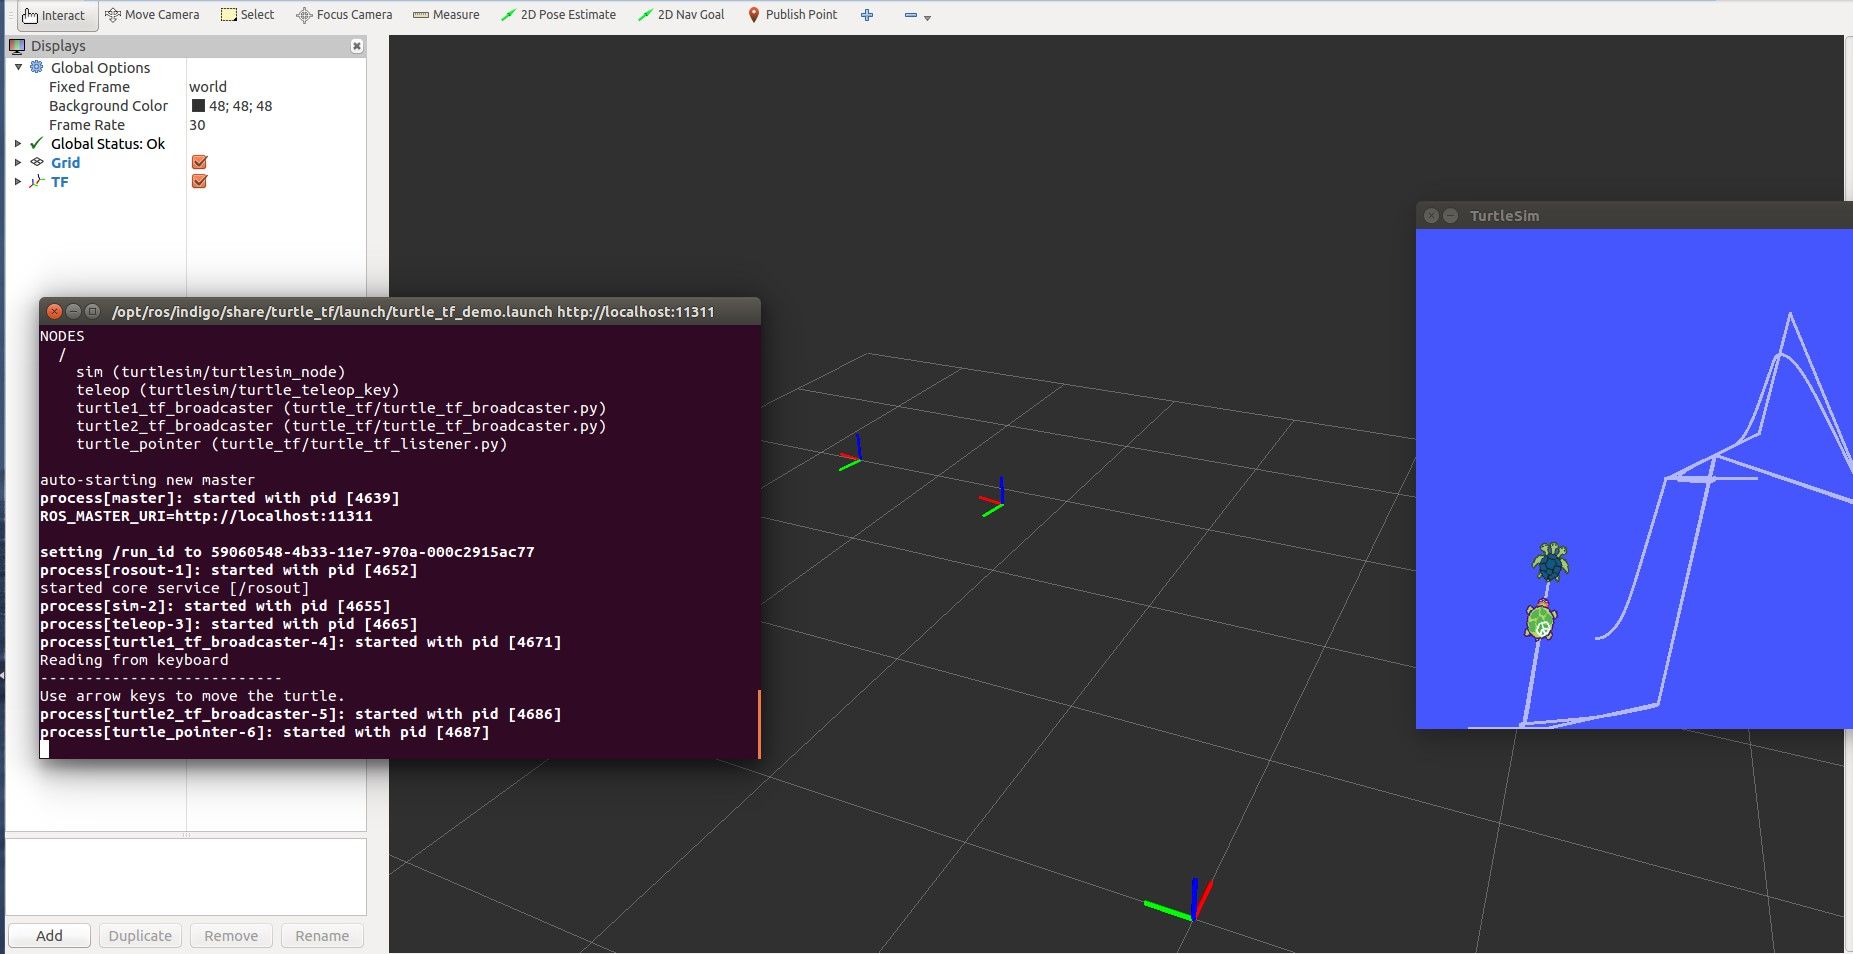
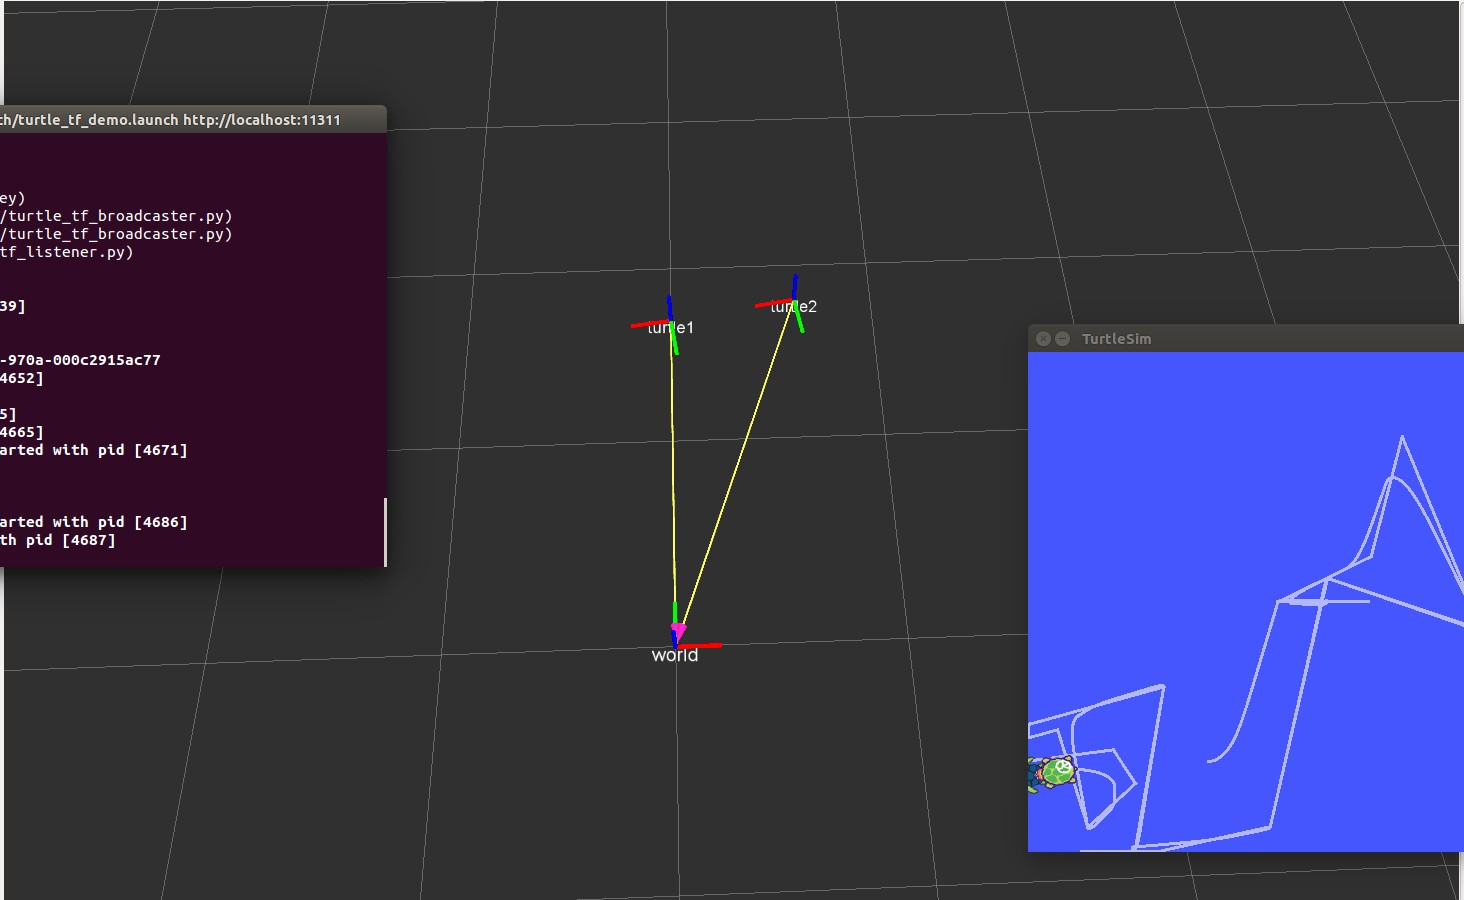
add ros-primary-tutorial-13 page

diff --git a/source/_posts/ros-primary-tutorial-13.md b/source/_posts/ros-primary-tutorial-13.md
@@ -1,0 +1,201 @@
+---
+title: ROS初级<十三> 理解 ROS 坐标转换 二
+date: 2017-06-07 13:44:30
+categories: ROS
+tags: ROS tf
+comments: true
+---
+本篇继续学习 [tf](http://wiki.ros.org/tf)。通过编写一个简单的 tf broadcaster 以及 tf listener 来更进一步的理解坐标变换，参考:[Writing a tf broadcaster C++](http://wiki.ros.org/tf/Tutorials/Writing%20a%20tf%20broadcaster%20%28C%2B%2B%29) 以及 [Writing a tf listener C++](http://wiki.ros.org/tf/Tutorials/Writing%20a%20tf%20listener%20%28C%2B%2B%29)
+<!--more-->
+# tf broadcaster
+先创建一个程序包，名字随心，这里我们命名为 *learning_tf*,包的依赖项为 *roscpp rospy turtlesim*
+
+   ```
+ $ cd ~/catkin_ws/src/
+ $ catkin_create_pkg learning_tf roscpp rospy turtlesim
+   ```
+
+为了便于使用 *roscd* 我们先编译一下这个程序包:
+
+   ```
+ $ cd ~/catkin_ws/
+ $ catkin_make
+ $ rospack profile
+   ```
+
+此时使用 roscd 输入lean 再按 TAB 即可出现 *learning_tf/*。进入 *learning_tf/src* 目录下，新建文件 *turtle_tf_broadcaster.cpp* 如果不愿意敲代码，可以直接下载官网例程 [trutle_tf_broadcaster.cpp](https://raw.github.com/ros/geometry_tutorials/hydro-devel/turtle_tf/src/turtle_tf_broadcaster.cpp)，源代码及注解：
+
+   ```
+ #include <ros/ros.h>
+ #include <tf/transform_broadcaster.h> //tf 广播头文件
+ #include <turtlesim/Pose.h>
+ 
+ std::string turtle_name;
+ 
+ 
+ 
+ void poseCallback(const turtlesim::PoseConstPtr& msg)
+ {
+   //创建一个 TransformBroadcaster 对象用于发布坐标变换
+   static tf::TransformBroadcaster br;
+   
+   //创建Transform 对象并将2D的坐标转换为3D坐标系
+   tf::Transform transform;
+   transform.setOrigin( tf::Vector3(msg->x, msg->y, 0.0) );
+  
+   tf::Quaternion q;
+   q.setRPY(0, 0, msg->theta);
+   transform.setRotation(q);//旋转
+   //发布坐标变换
+   br.sendTransform(tf::StampedTransform(transform, ros::Time::now(), "world", turtle_name));
+ }
+ 
+ int main(int argc, char** argv)
+ {
+   ros::init(argc, argv, "my_tf_broadcaster");
+
+   if (argc != 2){ROS_ERROR("need turtle name as argument"); return -1;};
+  
+   turtle_name = argv[1];
+ 
+   ros::NodeHandle node;
+  //订阅 turtle_name 的位置话题，并调用回调函数 poseCallback
+   ros::Subscriber sub = node.subscribe(turtle_name+"/pose", 10, &poseCallback);
+ 
+   ros::spin();
+   return 0;
+  };
+
+   ```
+修改CMakeLists.txt:
+   ```
+ add_executable(turtle_tf_broadcaster src/turtle_tf_broadcaster.cpp)
+ target_link_libraries(turtle_tf_broadcaster ${catkin_LIBRARIES})
+   ```
+编译：
+   ```
+ $ cd ~/catkin_ws/
+ $ catkin_make
+   ```
+编译报错：
+   ```
+Linking CXX executable /home/steven/catkin_ws/devel/lib/learning_tf/turtle_tf_broadcaster
+CMakeFiles/turtle_tf_broadcaster.dir/src/turtle_tf_broadcaster.cpp.o: In function `poseCallback(boost::shared_ptr<turtlesim::Pose_<std::allocator<void> > const> const&)':
+turtle_tf_broadcaster.cpp:(.text+0x39): undefined reference to `tf::TransformBroadcaster::TransformBroadcaster()'
+turtle_tf_broadcaster.cpp:(.text+0x1a3): undefined reference to `tf::TransformBroadcaster::sendTransform(tf::StampedTransform const&)'
+collect2: ld returned 1 exit status
+make[2]: *** [/home/steven/catkin_ws/devel/lib/learning_tf/turtle_tf_broadcaster] Error 1
+make[1]: *** [learning_tf/CMakeFiles/turtle_tf_broadcaster.dir/all] Error 2
+make: *** [all] Error 2
+Invoking "make -j1 -l1" failed
+   ```
+忘记了在 CMakeLists.txt 文件需要添加 tf 包的依赖：
+   ```
+find_package(catkin REQUIRED COMPONENTS
+    roscpp
+    rospy
+    turtlesim
+    tf
+  )
+   ```
+编译完成后在 ~/catkin_ws/devel/lib/learning_tf/ 目录下会看到编译好的可执行文件 turtle_tf_broadcaster
+接下来创建一个 launch 文件：
+   ```
+$ mkdir -p ~/catkin_ws/src/learning_tf/launch
+$ roscd learning_tf/launch/
+$ touch start_demo.launch
+   ```
+输入以下内容：
+   ```
+<launch>
+    <!-- Turtlesim Node-->
+    <node pkg="turtlesim" type="turtlesim_node" name="sim"/>
+
+    <node pkg="turtlesim" type="turtle_teleop_key" name="teleop" output="screen"/>
+    <!-- Axes -->
+    <param name="scale_linear" value="2" type="double"/>
+    <param name="scale_angular" value="2" type="double"/>
+
+    <node pkg="learning_tf" type="turtle_tf_broadcaster"
+          args="/turtle1" name="turtle1_tf_broadcaster" />
+    <node pkg="learning_tf" type="turtle_tf_broadcaster"
+          args="/turtle2" name="turtle2_tf_broadcaster" />
+
+  </launch>
+   ```
+
+# tf listener
+前面编写了broadcaster 用于发布 turtle 的位置到坐标 tf，下面来编写 listener 来监听坐标的变换。参考 [Writing a tf listener C++](http://wiki.ros.org/tf/Tutorials/Writing%20a%20tf%20listener%20%28C%2B%2B%29)。在 learning_tf/src 目录下新建文件 [turtle_tf_listener.cpp](https://raw.github.com/ros/geometry_tutorials/hydro-devel/turtle_tf/src/turtle_tf_listener.cpp) :
+   ```
+ #include <ros/ros.h>
+ #include <tf/transform_listener.h>
+ #include <geometry_msgs/Twist.h>
+ #include <turtlesim/Spawn.h>
+  
+ int main(int argc, char** argv){
+     ros::init(argc, argv, "my_tf_listener");
+  
+     ros::NodeHandle node;
+ 
+     ros::service::waitForService("spawn");
+     ros::ServiceClient add_turtle =
+      node.serviceClient<turtlesim::Spawn>("spawn");
+     turtlesim::Spawn srv;
+     add_turtle.call(srv);
+ 
+     ros::Publisher turtle_vel =
+     node.advertise<geometry_msgs::Twist>("turtle2/cmd_vel", 10);
+ 
+     tf::TransformListener listener;
+ 
+     ros::Rate rate(10.0);
+     while (node.ok()){
+       tf::StampedTransform transform;
+       try{
+         listener.lookupTransform("/turtle2", "/turtle1",
+                                  ros::Time(0), transform);
+       }
+       catch (tf::TransformException &ex) {
+         ROS_ERROR("%s",ex.what());
+         ros::Duration(1.0).sleep();
+         continue;
+       }
+  
+       geometry_msgs::Twist vel_msg;
+       vel_msg.angular.z = 4.0 * atan2(transform.getOrigin().y(),
+                                       transform.getOrigin().x());
+       vel_msg.linear.x = 0.5 * sqrt(pow(transform.getOrigin().x(), 2) +
+                                     pow(transform.getOrigin().y(), 2));
+       turtle_vel.publish(vel_msg);
+  
+       rate.sleep();
+     }
+     return 0;
+   };
+
+
+   ```
+在CMakeLists.txt中添加依赖项：
+   ```
+add_executable(turtle_tf_listener src/turtle_tf_listener.cpp)
+target_link_libraries(turtle_tf_listener ${catkin_LIBRARIES})
+   ```
+编译如果提示错误：
+   ```
+turtle_tf_listener.cpp:3:32: fatal error: turtlesim/Velocity.h: No such file or directory
+compilation terminated.
+   ```
+则文件使用的为之前版本，应该选择下载 hydro 版本的 参考 [Writing listener C++](http://wiki.ros.org/tf/Tutorials/Writing%20a%20tf%20listener%20%28C%2B%2B%29)
+之后修改start_demo.launch 将listener节点添加进去：
+   ```
+<node pkg="learning_tf" type="turtle_tf_listener" name="listener" />
+   ```
+# 测试
+停止之前的launch 文件，然后启动 start_demo.launch：
+   ```
+$ roslaunch learning_tf start_demo.launch
+   ```
+可以通过以下命令查看坐标广播信息：
+   ```
+$ rosrun tf tf_echo /world /turtle1
+   ```

diff --git a/source/_posts/ros-primary-tutorial-12.md b/source/_posts/ros-primary-tutorial-12.md
@@ -7,11 +7,11 @@ comments: true
 ---
 一个完整的机器人有腿(或轮子)、有眼睛、有手、有大脑，大脑控制机器人去协调的动作。问题来了，大脑是如何知道腿在哪儿？眼睛在哪儿？手臂在哪儿？要帮主人把房门打开，如何控制手臂去开门？这些都涉及到一个关键的问题-机器人的坐标变换。本篇学习 ROS 中的 [tf](http://wiki.ros.org/tf) 。参考 [Introduction tf](http://wiki.ros.org/tf/Tutorials/Introduction%20to%20tf)。
 <!--more-->
-# 实例
+# tf 初理解
 ![](ros-primary-tutorial-12/tf.png)
-
-参考 [官网](http://wiki.ros.org/tf)。
-通过一个实例来更好的理解  [tf](http://wiki.ros.org/tf)。
+tf 是 ROS 中的坐标变换系统，它可以跟踪多个参考坐标系的坐标，使用树形数据结构根据时间缓冲来维护这些坐标及其坐标关系，帮助我们在任意时间完成两个或多个参考系中的坐标变换。 tf 以分布式形式存在，所有节点都可以使用这些变换数据，节点可以监听 tf 变换，接收系统中发布的所有参考坐标系，并查询需要的参考坐标系；节点可以广播 tf 变换，想系统中广播参考系坐标关系，每个节点的参考坐标广播可以直接插入 tf 树中告知系统。
+# 实例
+通过一个实例来更好的理解  [tf](http://wiki.ros.org/tf)，参考 [官网](http://wiki.ros.org/tf)。
 启动一个demo:
    ```
  $ roslaunch turtle_tf turtle_tf_demo.launch
@@ -40,6 +40,7 @@ frames.pdf generated
 $ evince frames.pdf
    ```
 ![](ros-primary-tutorial-12/pdf.jpg)
+从图中可以看出，系统存在三个参考坐标系，world 为父坐标系即全局坐标系，另外两个也都有自己的坐标系，信息中还包括发送频率、缓存长度等信息。
 
 [rqt_tf_tree](http://wiki.ros.org/rqt_tf_tree):
 
@@ -53,6 +54,9 @@ $ rosrun rqt_tf_tree rqt_tf_tree
    ```
 rosrun tf tf_echo [reference_frame] [target_frame]
    ```
+如何从 turtle1 得到 turtle2 的坐标:
+![](ros-primary-tutorial-12/matrix.png)
+
 该命令输出指定的坐标变换关系，如：
    ```
 $ rosrun tf tf_echo turtle1 turtle2
@@ -80,7 +84,7 @@ At time 1496812266.205
             in RPY (radian) [0.000, -0.000, 1.571]
             in RPY (degree) [0.000, -0.000, 90.000]
    ```
-它是一直输出的，当控制移动时会实时的观测到坐标的变化。
+它是一直输出的，当控制移动 turtle1 时可以看到 turtle2 的坐标是怎么变化的，也就是 turtle2 的坐标是怎么根据 turtle1 的出来的。
 # rviz
 使用 [rviz]() 可视化工具查看坐标系之间的坐标关系
    ```
@@ -88,4 +92,4 @@ $ rosrun rviz rviz -d `rospack find turtle_tf`/rviz/turtle_rviz.rviz
    ```
 当通过键盘控制 turtle 运动时，可以在 rviz 中观察到两个 turtle 的位置关系及坐标的变换：
 ![](ros-primary-tutorial-12/rviz.jpg)
-远处两个小的坐标系分别为 turtle1 和 turtle2 的坐标系，近处这个大的坐标系为系统全局坐标系。本篇先到这里，下一篇进一步学习 tf 坐标变换。
+远处两个小的坐标系分别为 turtle1 和 turtle2 的坐标系，左下角为系统全局坐标系。本篇先到这里，下一篇进一步学习 tf 坐标变换。
